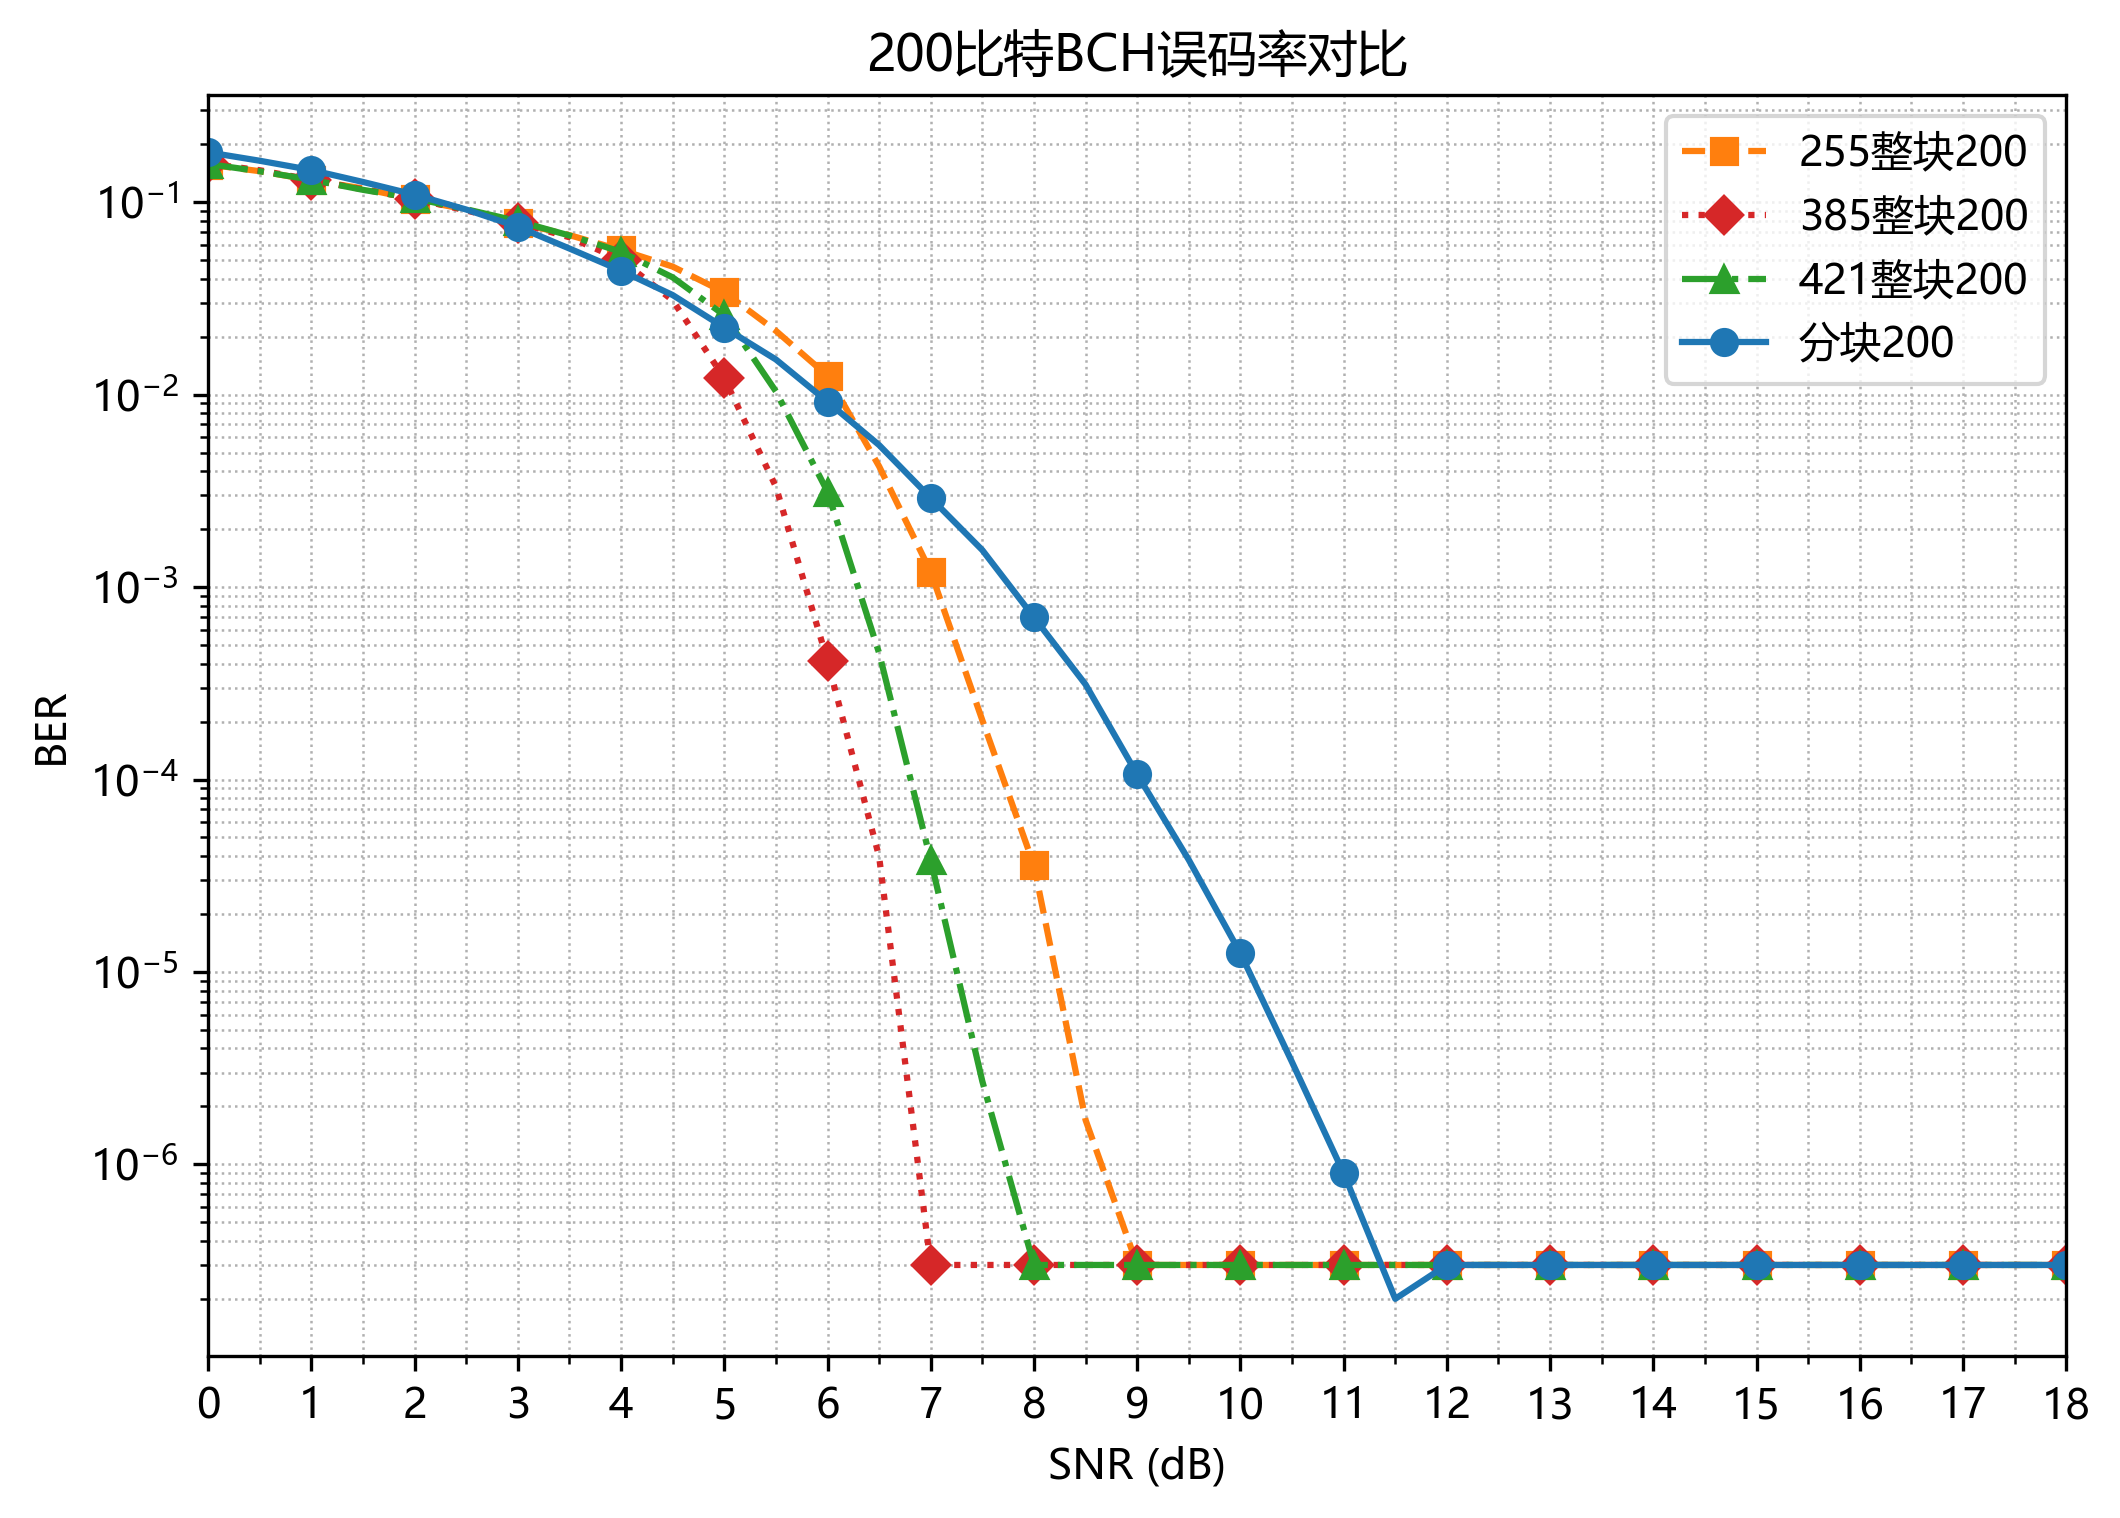
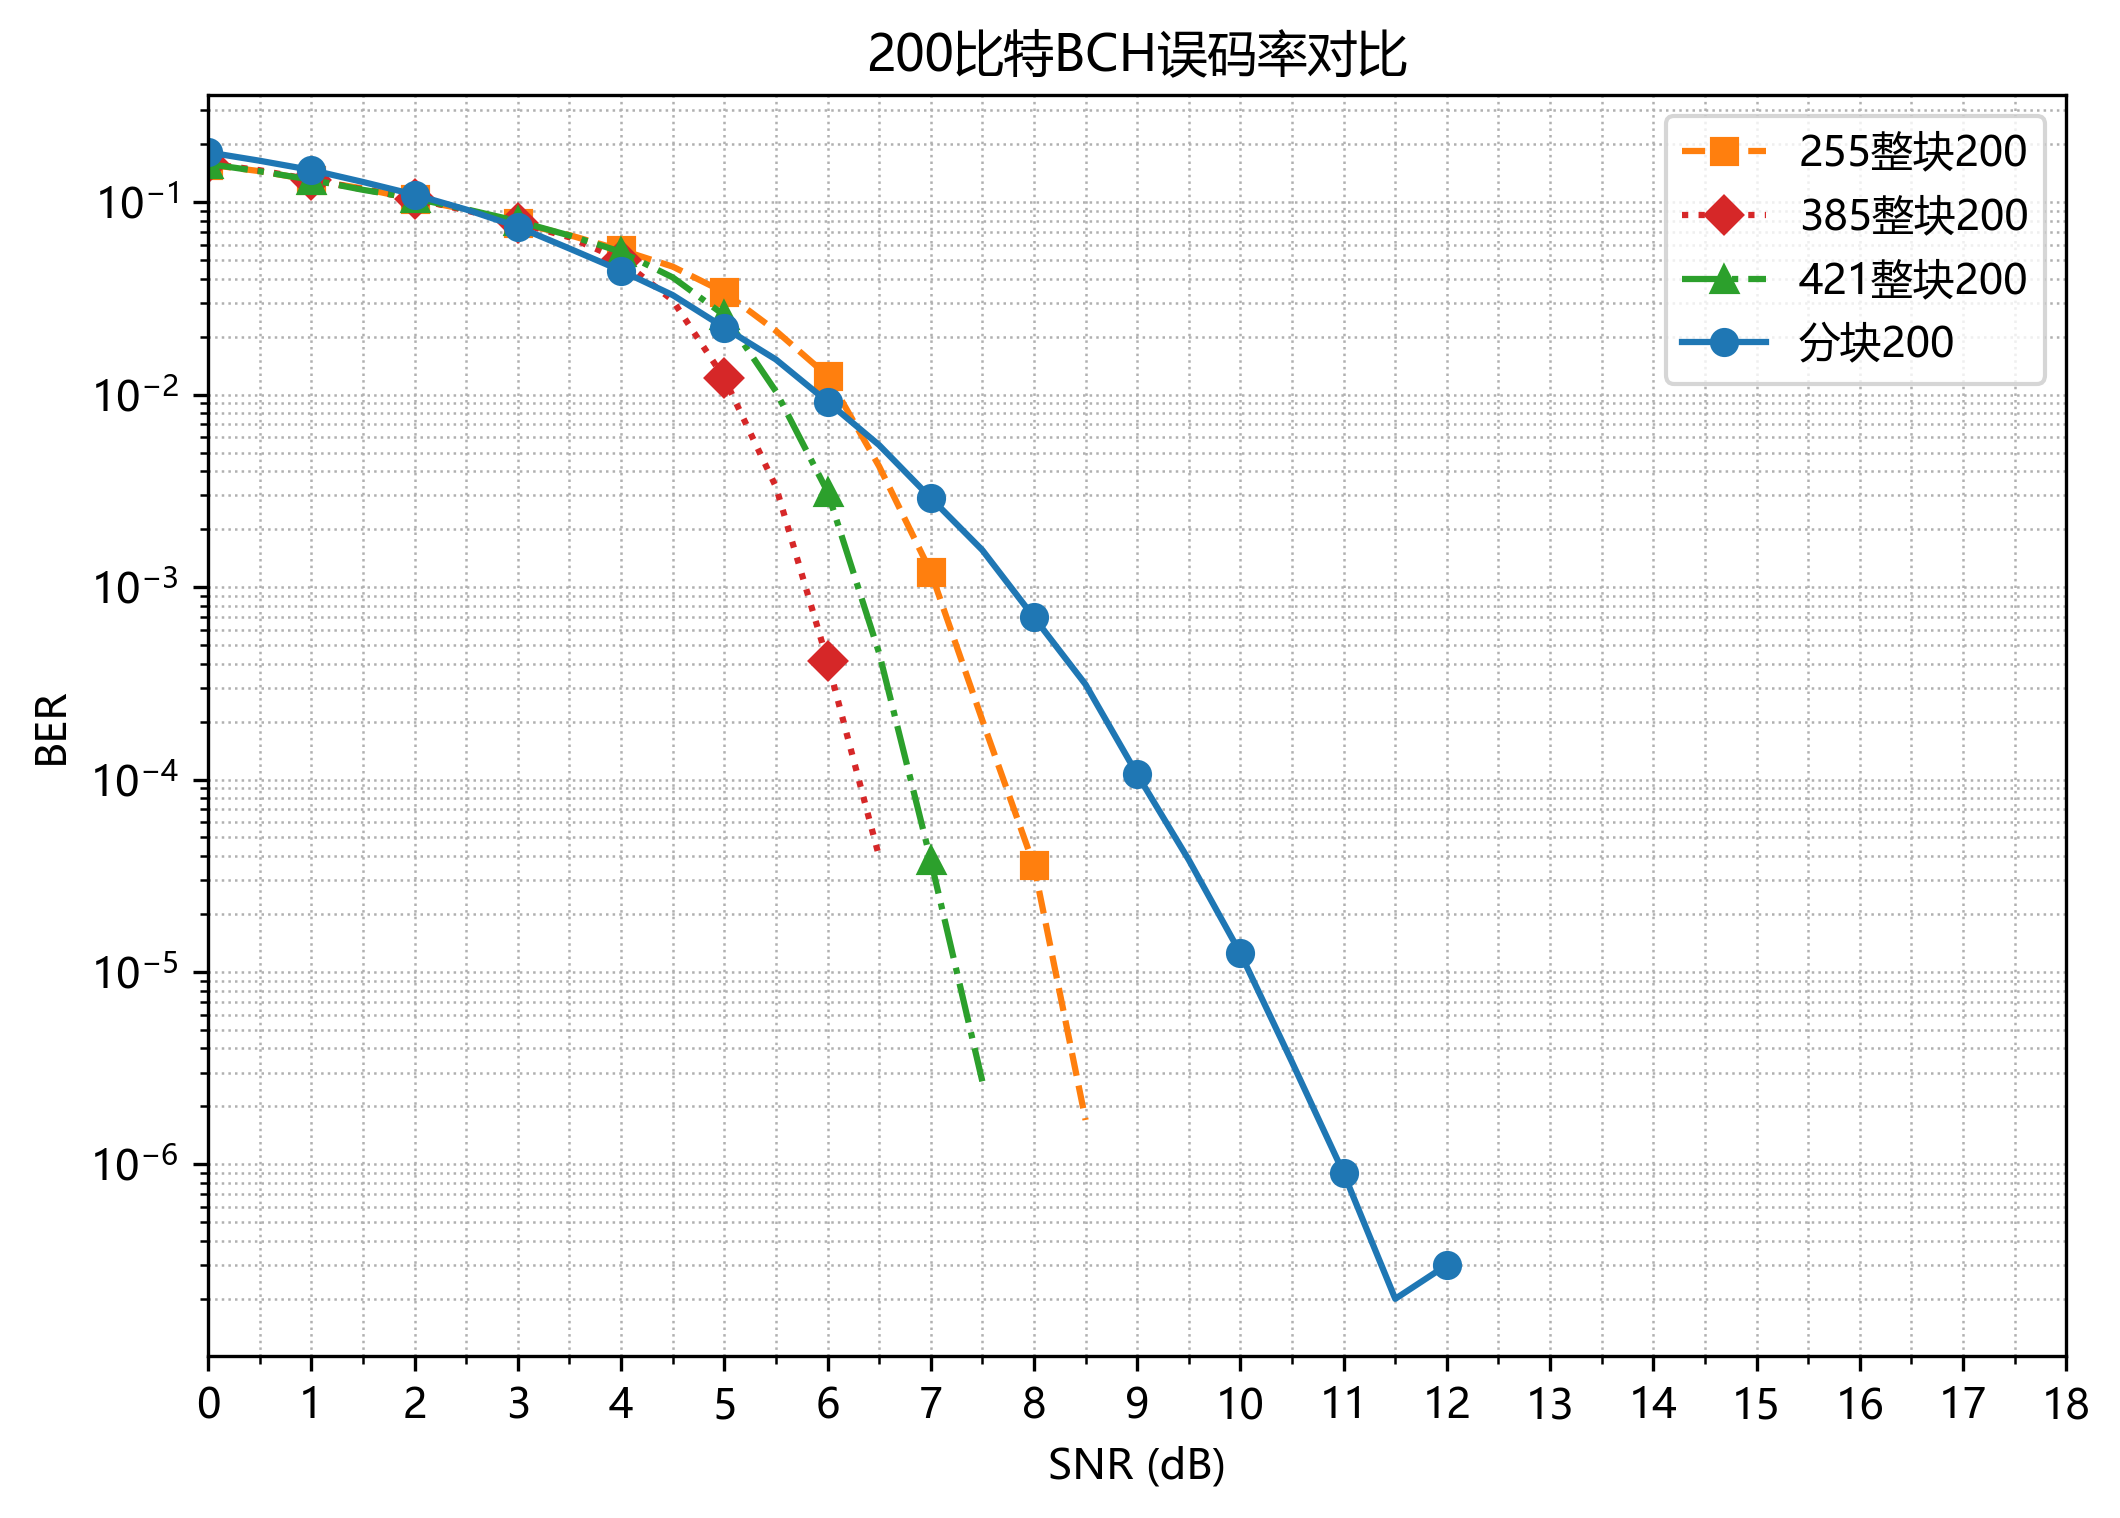
BCH/stage07：修复FER高SNR假平台绘图

Changed region(s): [[0.4358, 0.805, 0.9651, 0.8669]]

diff --git a/Task/BCH/simulation/stages/S2/stage07_awgn_dense_formal/python/stage07_awgn_dense_formal_plot.py b/Task/BCH/simulation/stages/S2/stage07_awgn_dense_formal/python/stage07_awgn_dense_formal_plot.py
@@ -138,9 +138,16 @@ def main():
         for case_id in dict.fromkeys(x["caseId"] for x in data):
             pts = [x for x in data if x["caseId"] == case_id]
             color, line, marker = STYLE[pts[0]["styleId"]]
-            ax.plot([float(x["snrDb"]) for x in pts], [float(x["plotY"]) for x in pts],
-                    color=color, linestyle=line, marker=marker, markevery=2,
-                    label=pts[0]["legendLabel"])
+            if yscale == "log":
+                observed = [x for x in pts if x["isZeroObserved"] != "true"]
+                if observed:
+                    ax.plot([float(x["snrDb"]) for x in observed], [float(x["plotY"]) for x in observed],
+                            color=color, linestyle=line, marker=marker, markevery=2,
+                            label=pts[0]["legendLabel"])
+            else:
+                ax.plot([float(x["snrDb"]) for x in pts], [float(x["plotY"]) for x in pts],
+                        color=color, linestyle=line, marker=marker, markevery=2,
+                        label=pts[0]["legendLabel"])
         ax.set_xlabel("SNR (dB)")
         ax.set_ylabel(ylabel)
         ax.set_title(title)
@@ -180,7 +187,7 @@ def main():
             "xMax": 18.0,
             "xStep": 0.5,
             "markEvery": 2,
-            "zeroObservedPointRule": "BER/FER raw zero values are censored zero-observation points; log plots use a one-sided 95% upper bound of 3/N.",
+            "zeroObservedPointRule": "BER/FER raw zero values are censored zero-observation points; log plots omit censored zero-observed points from the main curve to avoid a false error floor.",
         })
     aggregate_path = PLOTS / "stage07_awgn_dense_formal_figure_data.csv"
     write(aggregate_path, aggregate, FIGURE_FIELDS)
@@ -197,7 +204,7 @@ def main():
         "pythonVersion": platform.python_version(),
         "matplotlibVersion": matplotlib.__version__,
         "createdAt": platform.node(),
-        "zeroSurrogateRule": "raw CSV keeps zero; zero-observed BER/FER points are censored and log plots use one-sided 95% upper bound 3/raw denominator",
+        "zeroSurrogateRule": "raw CSV keeps zero; zero-observed BER/FER points are censored; log plots omit censored zero-observed points from the main curve to avoid a false error floor; 3/raw denominator upper bounds remain in figure-data and published error-floor analysis",
         "zeroObservedUpperBoundFactor": ZERO_OBSERVED_UPPER_BOUND_FACTOR,
         "xTransformFormula": "EbN0_dB = SNR_dB - 10*log10(2*R); sigma2 = 1/10^(SNR_dB/10)",
         "legendMapping": {r["caseId"]: r["legendLabel"] for r in raw},

diff --git a/Task/BCH/simulation/stages/S2/stage07_awgn_dense_formal/python/stage07_awgn_dense_formal_check.py b/Task/BCH/simulation/stages/S2/stage07_awgn_dense_formal/python/stage07_awgn_dense_formal_check.py
@@ -156,6 +156,9 @@ def check_figures(data):
             "x-axis contract mismatch")
         req(fig["legendLocation"] == "upper right", "legend location mismatch")
         req(fig["yScale"] in ("log", "linear"), "unknown y scale")
+        if fig["yScale"] == "log":
+            req("omit censored zero-observed points" in fig["zeroObservedPointRule"],
+                "zero-observed plot rule mismatch")
         fd = rows(PLOTS / fig["figureData"])
         req(len(fd) == 148, "per-figure data row count mismatch")
         req(fig["figureDataSha256"] == sha(PLOTS / fig["figureData"]), "figure-data hash mismatch")
